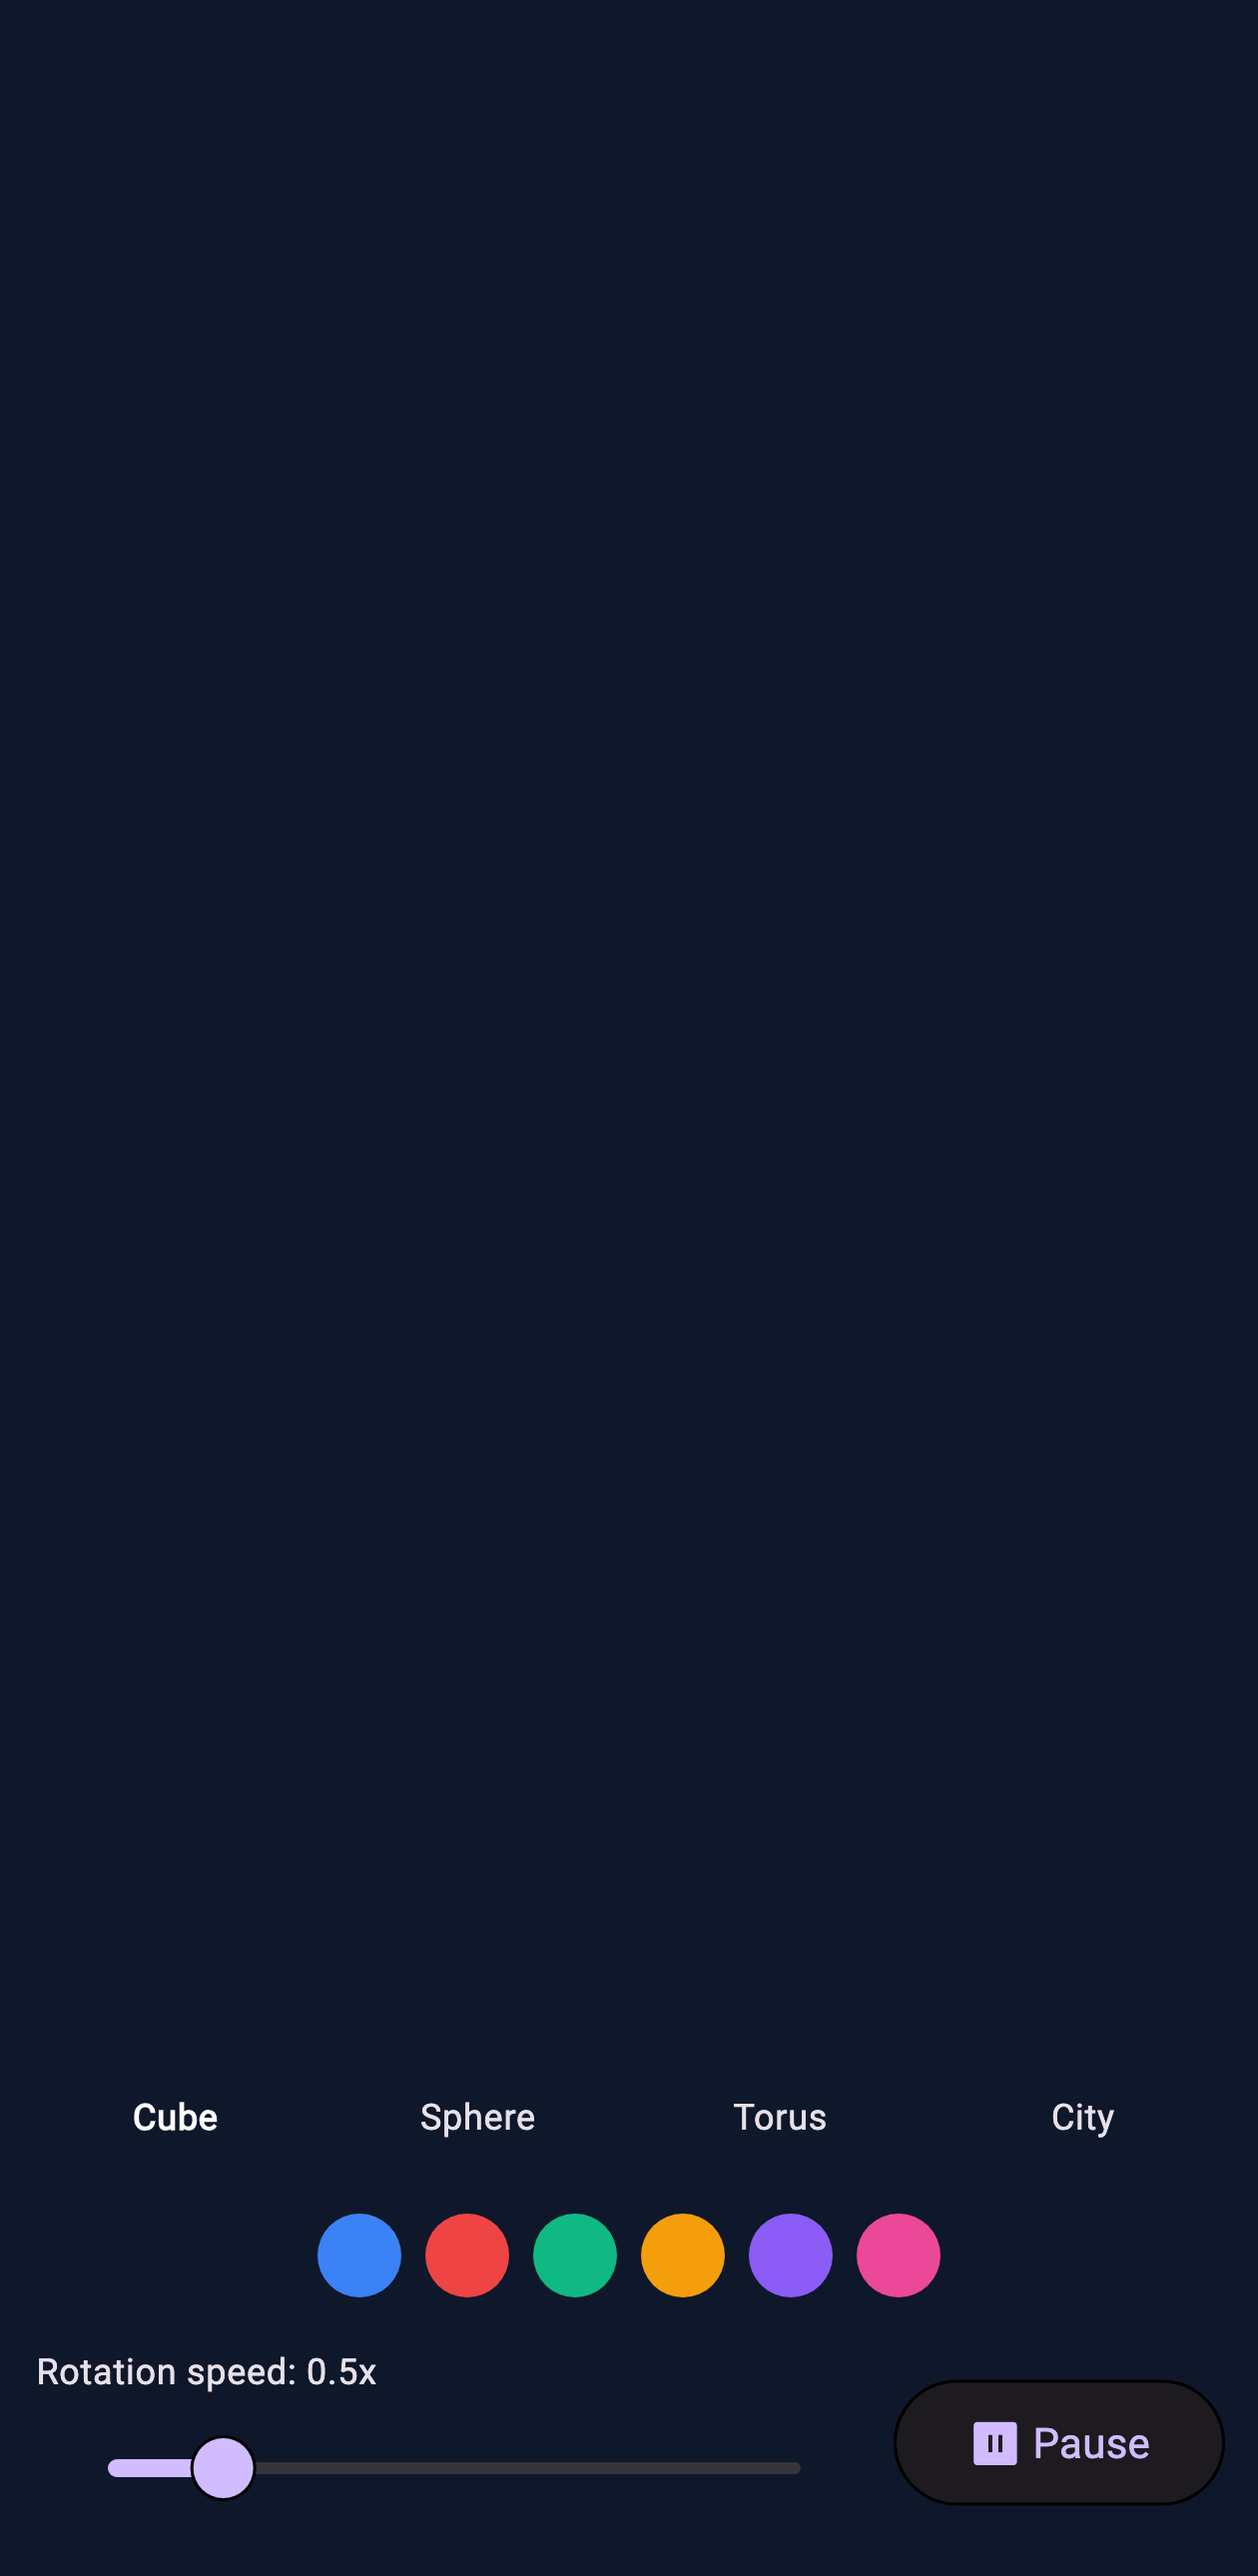
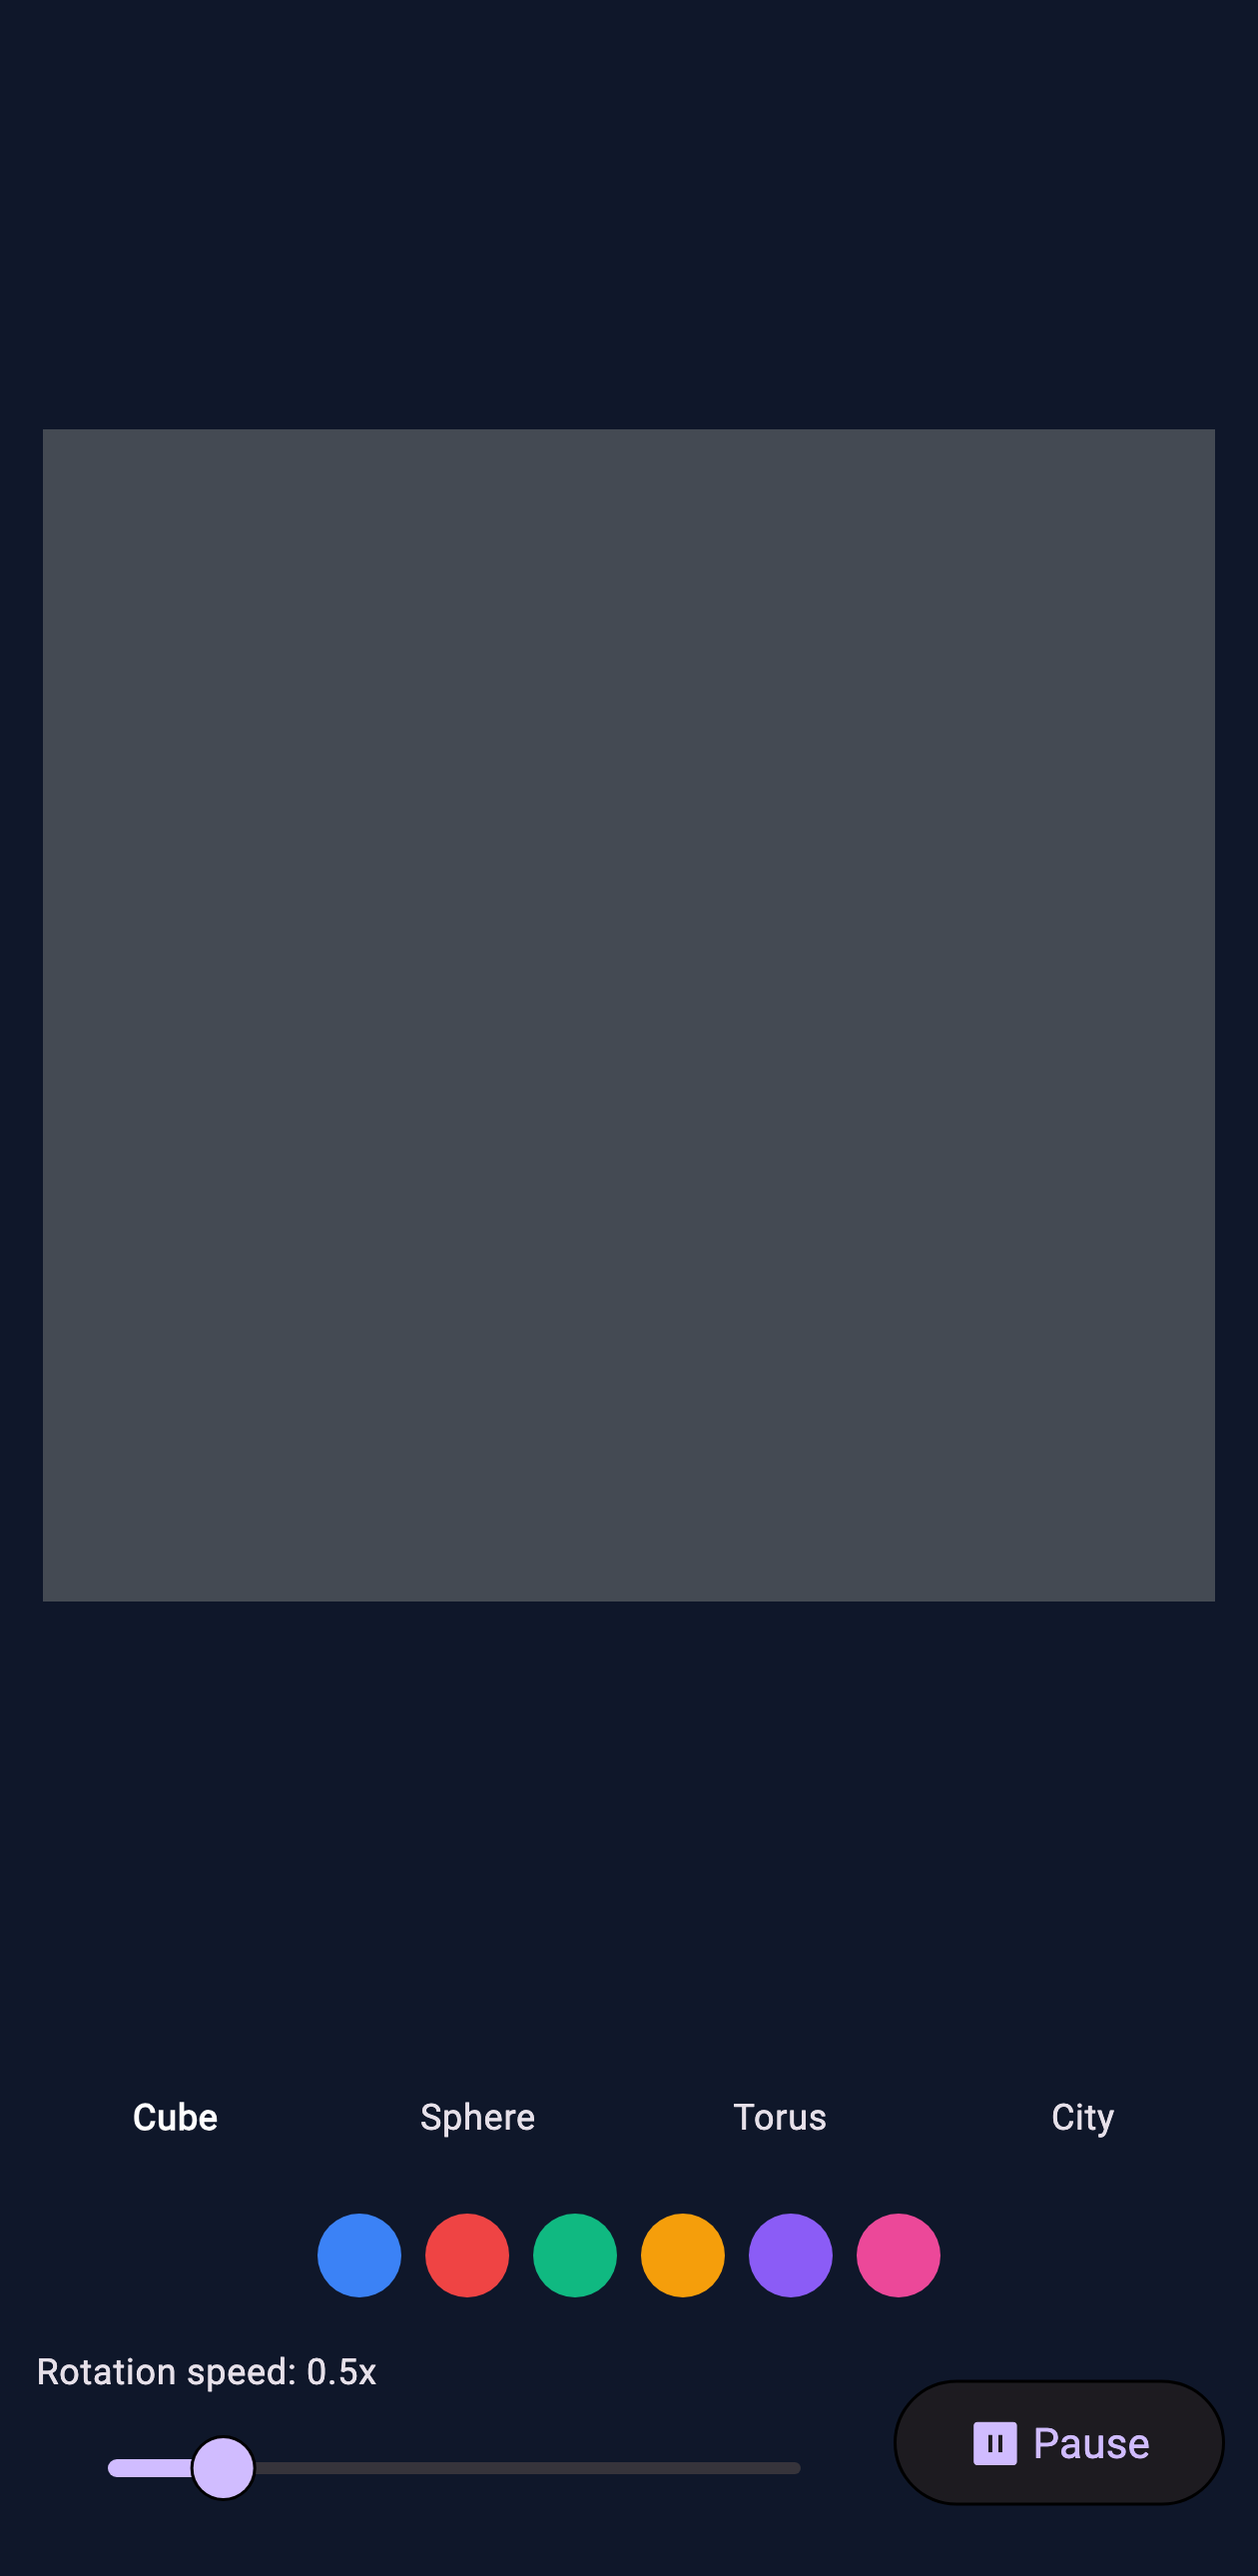
test(goldens): render 3D scenes in golden captures, stop engine timers
3D goldens (3d-showcase, 3d-game-dodge, 3d-glb-showcase, fitness-trainer)
previously rendered empty scenes: the engine was disposed before the
golden pump, so the bridge disposed its scene controllers and the
scene3d node re-created a fresh empty controller.

- golden test keeps interactive/3D engines alive until tearDownAll
- QuickjsWidgetEngineBackend.debugStopTimers + JsWidgetBridge.debugStopTimers
  stop RAF/interval timers without disposing scenes (test seam)
- Cube3dHost.skipAnimationLoop flag: controllers never start the periodic
  animation timer in tests (fake-async zone rejects pending timers)
- 3D widgets get extra pumps: the Cube widget drains pending commands in
  onSceneCreated after its first frame, objects paint from the next

GLB widgets render their placeholder on platforms without Impeller
(test/CI) — that is the documented fallback; real GLB output is covered
by the interactive showcase path and device runs.

diff --git a/test/golden/js_widget_golden_test.dart b/test/golden/js_widget_golden_test.dart
@@ -36,6 +36,10 @@ final bool _hasNativeLib = File(QuickjsFfi.libraryPath).existsSync();
 /// Widgets whose scenes need the Impeller-backed flame host (GLB models).
 const _flameWidgets = {'3d-glb-showcase', 'fitness-trainer'};
 
+/// All 3D widgets (cube or flame) — their scenes paint from the second
+/// frame on, after `onSceneCreated` fires.
+bool _is3dWidget(String id) => id.startsWith('3d-') || _flameWidgets.contains(id);
+
 const _widgetFiles = {
   'yolo-hello': 'example/widgets/yolo-hello/widget.js',
   'calculator': 'example/widgets/calculator/widget.js',
@@ -53,7 +57,7 @@ const _widgetFiles = {
 /// One cube host for all 3D goldens — a fresh instance per test run so
 /// scene controllers never leak across widget captures (the singleton would
 /// serve disposed controllers from a previous test).
-final _goldenCubeHost = Cube3dHost.fresh();
+final _goldenCubeHost = Cube3dHost.fresh()..skipAnimationLoop = true;
 
 /// Flame host for GLB widgets (Impeller-backed; the golden pumps render
 /// through it on macOS, on Linux CI those widgets fall back to their
@@ -147,6 +151,13 @@ class _RunningWidget {
 
   final QuickjsWidgetEngineBackend backend;
   final List<Map<String, dynamic>> renders;
+
+  /// Stops the JS engine's RAF ticker and interval timers without disposing
+  /// the bridge or its scene controllers — the scene3d golden still needs
+  /// the controller alive. Widgets with infinite RAF/timer loops (showcase,
+  /// 3D games) would otherwise trip the "animation still running after the
+  /// tree was disposed" test invariant.
+  void stopEngineTimers() => backend.debugStopTimers();
 
   /// Fires the widget's event handler (as a button tap would) and waits
   /// for the next render it produces.
@@ -302,8 +313,24 @@ void main() {
         _trees[e.key] = runner.renders.isNotEmpty ? runner.renders.last : null;
         // Non-interactive widgets' engines are no longer needed; timers and
         // tickers must not survive into the golden pumps below.
-        if (e.key != 'animation-showcase') await runner.dispose();
-        else _runners[e.key] = runner;
+        // Interactive (showcase) and 3D widgets' engines must stay alive:
+        // the scene3d node binds the controller created during JS startup,
+        // and disposing the bridge would dispose the scene before the
+        // golden capture. But their JS-side RAF loops/timers keep ticking
+        // and would trip the "animation still running after the tree was
+        // disposed" invariant — stop them while keeping the scene alive.
+        if (e.key == 'animation-showcase' || _is3dWidget(e.key)) {
+          runner.stopEngineTimers();
+          _runners[e.key] = runner;
+          // Cube controllers run their own animation Timer outside the
+          // bridge — stop it too (the scene must stay alive for the golden,
+          // but nothing may keep ticking into the capture).
+          for (final c in _goldenCubeHost.liveControllers.values) {
+            c.stopAnimationLoop();
+          }
+        } else {
+          await runner.dispose();
+        }
       }
     }
     // Real fonts make goldens readable and reusable as README screenshots;
@@ -355,6 +382,16 @@ void main() {
       // A fixed frame, never pumpAndSettle: showcase widgets run infinite
       // animations and timers, and goldens must stay deterministic.
       await tester.pump(const Duration(milliseconds: 16));
+      // 3D scenes need a second pump: the Cube widget creates the scene in
+      // its first build and `onSceneCreated` fires after that frame; the
+      // models and lighting are only painted from the second frame on.
+      if (_is3dWidget(entry.key)) {
+        // The Cube widget drains pending commands (addModel, etc.) in
+        // onSceneCreated — which fires after its first frame; the scene then
+        // paints objects only from the following frame. Two extra pumps.
+        await tester.pump(const Duration(milliseconds: 16));
+        await tester.pump(const Duration(milliseconds: 16));
+      }
 
       await expectLater(
         find.byType(MaterialApp),

diff --git a/lib/src/renderer/nodes/hosts/cube_3d_host.dart b/lib/src/renderer/nodes/hosts/cube_3d_host.dart
@@ -35,6 +35,12 @@ class Cube3dHost extends Js3dHost
   @visibleForTesting
   factory Cube3dHost.fresh() => Cube3dHost._();
 
+  /// Test seam: when true, controllers never start the periodic animation
+  /// timer — golden captures need a static frame, and a live Timer inside
+  /// the test's fake-async zone trips the timers-pending invariant.
+  @visibleForTesting
+  bool skipAnimationLoop = false;
+
   @override
   Js3dController createController(
     String sceneId,
@@ -42,7 +48,7 @@ class Cube3dHost extends Js3dHost
   ) {
     final existing = retainController(sceneId);
     if (existing != null) return existing;
-    final controller = Cube3dController._(sceneId, config);
+    final controller = Cube3dController._(sceneId, config, this);
     registerController(controller);
     return controller;
   }
@@ -72,7 +78,9 @@ class Cube3dHost extends Js3dHost
 /// abstract [Js3dController] interface.
 /// {@endtemplate}
 class Cube3dController extends RefCountedJs3dController {
-  Cube3dController._(this.sceneId, this.config);
+  Cube3dController._(this.sceneId, this.config, this._host);
+
+  final Cube3dHost _host;
 
   final String sceneId;
   final Map<String, dynamic> config;
@@ -260,6 +268,10 @@ class Cube3dController extends RefCountedJs3dController {
 
   void _startAnimationLoop() {
     _animationTimer?.cancel();
+    // Golden/test captures never run the animation loop: a periodic timer
+    // created inside the test's fake-async zone trips the "timers pending"
+    // invariant. Animations are also cheap to drive manually.
+    if (_host.skipAnimationLoop) return;
     _animationTimer = Timer.periodic(
       const Duration(milliseconds: 16),
       (_) {
@@ -299,6 +311,14 @@ class Cube3dController extends RefCountedJs3dController {
   void disposeInternal() {
     _disposed = true;
     _animationTimer?.cancel();
+  }
+
+  /// Test seam: stops the animation-loop timer without disposing the
+  /// controller — golden captures need the scene alive but a quiet tree.
+  @visibleForTesting
+  void stopAnimationLoop() {
+    _animationTimer?.cancel();
+    _animationTimer = null;
   }
 }
 

diff --git a/test/zz_cube_probe_test.dart b/test/zz_cube_probe_test.dart
@@ -1,0 +1,48 @@
+import 'dart:io';
+import 'package:flutter/material.dart';
+import 'package:flutter_test/flutter_test.dart';
+import 'package:js_widget_runtime/js_widget_runtime.dart';
+import 'package:js_widget_runtime/src/runtime/js_widget_engine_quickjs.dart';
+
+void main() {
+  testWidgets('probe cube scene in widget tree', (tester) async {
+    final host = Cube3dHost.fresh()..skipAnimationLoop = true;
+    final renders = <Map<String, dynamic>>[];
+    final backend = QuickjsWidgetEngineBackend(
+      config: JsRuntimeConfig(
+        widgetId: 'probe',
+        js3dHost: host,
+        onRender: renders.add,
+        onSetTitle: (_) {},
+        onStorageUpdate: (_) {},
+      ),
+    );
+    await backend.init();
+    backend.run(File('example/widgets/3d-showcase/widget.js').readAsStringSync());
+    for (var i = 0; i < 50 && renders.isEmpty; i++) {
+      await Future<void>.delayed(const Duration(milliseconds: 10));
+    }
+    backend.debugStopTimers();
+
+    await tester.pumpWidget(
+      MaterialApp(
+        home: Scaffold(
+          body: Center(
+            child: JsonWidgetRenderer(
+              onEvent: (_, __) {},
+              js3dHost: host,
+            ).build(renders.last),
+          ),
+        ),
+      ),
+    );
+    await tester.pump();
+    await tester.pump();
+
+    for (final c in host.liveControllers.values) {
+      final cc = c as Cube3dController;
+      print('after pump: scene=${cc.sceneId} objects=${cc.objects.keys.toList()} pending=${cc.pendingLength}');
+    }
+    await backend.dispose();
+  });
+}

diff --git a/lib/src/runtime/js_widget_engine_quickjs.dart b/lib/src/runtime/js_widget_engine_quickjs.dart
@@ -226,6 +226,15 @@ class QuickjsWidgetEngineBackend implements JsWidgetEngineBackend {
     }
   }
 
+  /// Test seam: stops the bridge's timers and RAF ticker without disposing
+  /// the bridge or its scene controllers. Golden tests of animated/3D
+  /// widgets keep the engine alive for the capture, but a ticking engine
+  /// trips the test binding's "animation still running" invariant.
+  @visibleForTesting
+  void debugStopTimers() {
+    _bridge.debugStopTimers();
+  }
+
   // ── Private ──────────────────────────────────────────────────────────────
 
   /// True while [rt] is the current, not-yet-disposed runtime. Deferred

diff --git a/lib/src/runtime/js_widget_bridge.dart b/lib/src/runtime/js_widget_bridge.dart
@@ -227,6 +227,14 @@ class JsWidgetBridge {
     }
   }
 
+  /// Test seam: stops interval timers and the RAF ticker without disposing
+  /// scene controllers (see QuickjsWidgetEngineBackend.debugStopTimers).
+  @visibleForTesting
+  void debugStopTimers() {
+    _intervals.dispose();
+    _raf.dispose();
+  }
+
   Map<String, dynamic> _parseArgs(dynamic args) => (args is Map)
       ? Map<String, dynamic>.from(args)
       : jsonDecode(args?.toString() ?? '{}') as Map<String, dynamic>;

diff --git a/lib/src/renderer/nodes/js_3d_host.dart b/lib/src/renderer/nodes/js_3d_host.dart
@@ -69,6 +69,10 @@ mixin Js3dControllerRegistry<T extends RefCountedJs3dController> {
     _controllers[controller.sceneId] = controller;
   }
 
+  /// All currently live controllers, keyed by scene id.
+  @visibleForTesting
+  Map<String, T> get liveControllers => Map.unmodifiable(_controllers);
+
   /// Drops a reference; returns whether this was the last one (the caller
   /// then disposes the controller).
   bool releaseController(T controller) {
